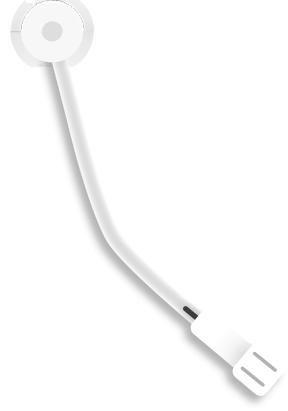
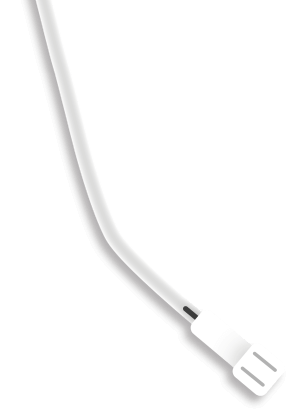
FIX:播放器

Changed region(s): [[0.0312, 0.0, 0.2188, 0.1752], [0.2812, 0.0584, 0.3438, 0.0876]]

diff --git a/src/pages/player/index.vue b/src/pages/player/index.vue
@@ -8,11 +8,14 @@
         <div class="mask_black"></div>
       </div>
       <div class="player_content_box" :style="playerStyle">
-        <img src="/static/images/player/needle.png" class="needle"/>
         <div class="controlTime" v-show="isShowControlTime">{{controlValueStr}}</div>
         <circularProgress 
           :currentValue='currentValue' 
           :countValue='countValue' />
+        <div class="needle" >
+          <cover-image src='/static/images/player/needle_dot.png' class="dot"/>
+          <canvas canvas-id='needle_canvas'></canvas>
+        </div>
         <div class="disc_box" :style="{backgroundImage:'url(' + (songInfo.imgSrc||'') + ')'}">
           <img src="/static/images/player/disc.png"/>
           <img src="/static/images/player/disc_light.png" class="disc_light"/>
@@ -59,8 +62,8 @@ export default {
 
   data () {
     return {
-      currentValue: 12,
-      countValue: 120,
+      currentValue: 0,
+      countValue: 0,
       controlValue: 0,
       isShowControlTime: false,
       isPlay: false,
@@ -75,7 +78,10 @@ export default {
       playTimer: null,
       playList: [],
       playIndex: 0,
-      ShowControlTimer: null
+      limitClickTime: null, // 限制疯狂点击
+      ShowControlTimer: null,
+      needleTimer: null,
+      timer: null
     }
   },
 
@@ -110,6 +116,9 @@ export default {
       this.isPlay = false
     },
     next () {
+      if (this.limitClick()) {
+        return false
+      }
       if (this.playIndex < this.playList.length) {
         this.playIndex++
       } else {
@@ -118,6 +127,9 @@ export default {
       this.play()
     },
     prev () {
+      if (this.limitClick()) {
+        return false
+      }
       if (this.playIndex > 0) {
         this.playIndex--
       } else {
@@ -160,6 +172,50 @@ export default {
         }
         this.playList = playList
       })
+    },
+    showNeedleImg (value) {
+      let ctx = wx.createCanvasContext('needle_canvas')
+      let needleImg = '/static/images/player/needle.png'
+      let degrees = -31
+      if (typeof (value) === 'undefined') {
+        value = -1
+      } else {
+        if (value === 1) {
+          degrees = -30
+        } else {
+          degrees = 0
+        }
+      }
+      clearInterval(this.needleTimer)
+      this.needleTimer = setInterval(() => {
+        ctx.rotate(degrees * Math.PI / 180)
+        ctx.clearRect(0, 0, 150, 150)
+        ctx.drawImage(needleImg, 2, 10, 90, 134)
+        ctx.draw()
+        degrees += value
+        if (value === 1 && degrees > 0) {
+          clearInterval(this.needleTimer)
+        } else if (value === -1 && degrees < -30) {
+          clearInterval(this.needleTimer)
+        }
+      }, 25)
+    },
+    limitClick () {
+      let time = new Date().getTime()
+      if ((time - this.limitClickTime) <= 2000) {
+        this.limitClickTime = time
+        wx.showToast({
+          title: '亲！慢慢来~',
+          icon: 'none'
+        })
+        clearTimeout(this.timer)
+        this.timer = clearTimeout(() => {
+          wx.hideToast()
+        }, 2000)
+        return true
+      }
+      this.limitClickTime = time
+      return false
     }
   },
 
@@ -173,17 +229,19 @@ export default {
   watch: {
     isPlay (value, oldValue) {
       if (value) {
+        this.showNeedleImg(1)
         this.playTimer = setInterval(() => {
           this.currentValue = this.audioManager.currentTime
         }, 200)
       } else {
         clearInterval(this.playTimer)
+        this.showNeedleImg(-1)
       }
     }
   },
 
   computed: {
-    ...mapState(['audioManager', 'topbarHeight']),
+    ...mapState(['audioManager', 'topbarHeight', 'systemInfo']),
     playerStyle () {
       return `
         height:calc(100% - ${this.topbarHeight + 10}px)
@@ -208,6 +266,10 @@ export default {
     this.audioManager.onEnded(() => {
       this.next()
     })
+  },
+
+  mounted () {
+    this.showNeedleImg()
   },
 
   onHide () {
@@ -259,9 +321,6 @@ export default {
   &.played{
     .disc_box{
       animation-play-state:running !important;
-    }
-    .needle{
-      transform: rotate(4deg) !important;
     }
   }
   .player_mask{
@@ -352,16 +411,25 @@ export default {
       }
     }
     .needle{
-      width: 90px;
-      height: 130px;
+      width: 150px;
+      height: 150px;
       position: absolute;
       left: 50%;
       top: 0;
       z-index: 20;
       margin-left: -14px;
-      transform: rotate(-30deg);
-      transform-origin: 16px 12px; 
-      transition: transform 0.5s ease-in;
+      .dot{
+        width: 30PX;
+        height: 30PX;
+        position: absolute;
+        top: -15PX;
+        left: 0PX;
+        z-index: 10;
+      }
+      canvas{
+        width:100%;
+        height: 100%;
+      }
     }
   }
 }
